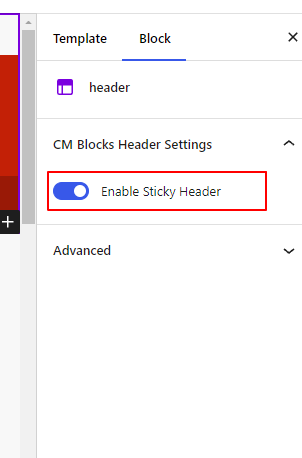
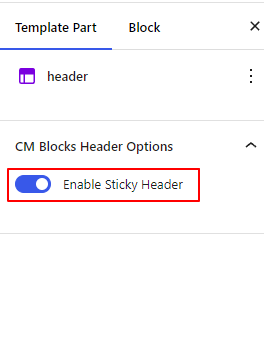
modified docs content for sticky header

diff --git a/docs/sticky-header/index.md b/docs/sticky-header/index.md
@@ -1,15 +1,18 @@
 ## What is a Sticky Header?
 
-A sticky header is a fixed navigation bar that stays at the top of the screen as users scroll through the content. This ensures that important navigation links and information are always accessible, enhancing user experience and website usability.
+A sticky header is a fixed navigation bar that stays at the top of the screen as users scroll through the content. This
+ensures that important navigation links and information are always accessible, enhancing user experience and website
+usability.
 
-## How to add sticky header to the template?
+## How to make your site header sticky?
 
 1. Install and activate the CM Blocks plugin.
-2. Navigate to Dashboard →  Appearance →  Editor.
-   ![Access Editor](assets/img/accessing-editor.png)
-3. In the sidebar on the right, select the Header Tab.
-   ![Select Header Tab](assets/img/selecting-header.png)
-4. In the CM Blocks Header Setting, enable the "Enable Sticky Header" option.
+2. Navigate to Dashboard → Appearance → Editor.
+   ![Access Editor](assets/img/access-editor.png)
+3. Select the Patterns Tab ![Select Patterns Tab](assets/img/select-patterns-tab.png)
+4. Select the Header Tab and then select the template that you want to edit. For example: header is selected
+   ![Select Header Template](assets/img/select-header-template.png)
+6. In the CM Blocks Header Options, enable the "Enable Sticky Header" option.
    ![Enable Sticky Header](assets/img/enable-sticky-header.png)
-5. Click Save.
+
 
